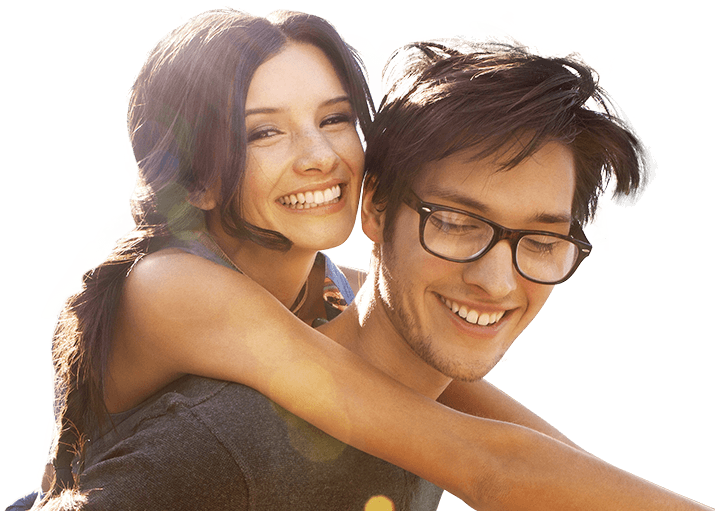
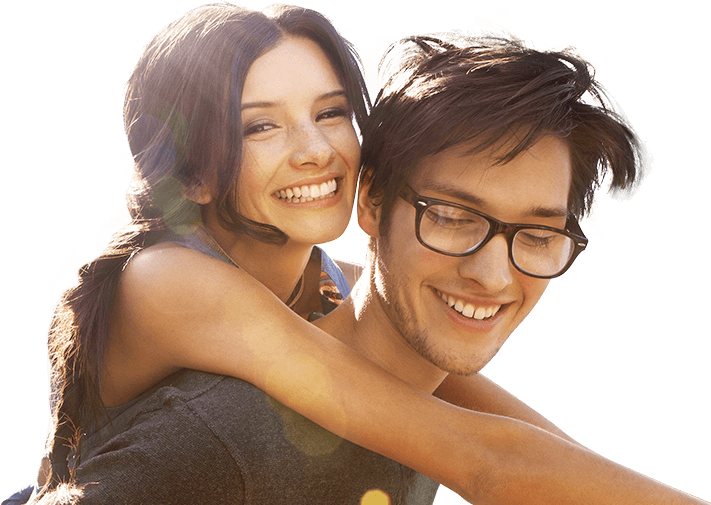
fix header for responsiveness

diff --git a/SCSS/orawellness.scss b/SCSS/orawellness.scss
@@ -1869,9 +1869,21 @@ div.home-header {
     background: url('images/home.jpg') no-repeat bottom center / cover;
 
     .wrap {
-        background: url('images/people.png') no-repeat bottom right;
+        background: url('images/people.png') no-repeat;
         position: relative;
-        @media screen and (min-width: 960px) { min-height: 45rem; }
+        @media screen and (min-width: 768px) {
+            min-height: 45rem;
+            background-position: bottom right;
+            background-size: 45%;
+        }
+        @media screen and (max-width: 767px) {
+            min-height: 55rem;
+            background-position: bottom center;
+            background-size: 20em;
+        }
+        @media screen and (max-width: 479px) {
+            background-size: 15em;
+        }
     }
 
     h1, p {
@@ -1881,32 +1893,74 @@ div.home-header {
     }
 
     h1 {
-        padding: 2rem;
+        padding: 0.28em;
         background-color: rgba($color-green-dark, 0.8);
         font-weight: 300;
         font-style: italic;
-        font-size: 7rem;
 
         &.title {
-            top: 2rem;
+            top: 0.28em;
             left: 0;
         }
-
         &.subtitle {
             top: 2.1em;
-            left: 2em;
             z-index: 100;
         }
+
+        @media screen and (min-width: 1200px) { font-size: 7rem; }
+        @media screen and (min-width: 960px) and (max-width: 1199px) { font-size: 6rem; }
+        @media screen and (min-width: 768px) and (max-width: 959px) { font-size: 5rem; }
+        @media screen and (min-width: 768px) {
+            &.title { left: 0; }
+            &.subtitle { left: 2em; }
+        }
+        @media screen and (min-width: 400px) and (max-width: 767px) {
+            font-size: 4.1rem;
+
+            &.title { left: 10%; }
+            &.subtitle { right: 10%; }
+        }
+        @media screen and (max-width: 399px) { font-size: 3rem; }
     }
 
     .description {
-        padding: 3rem 2rem 2rem 3rem;
+        padding: 1.36em 1.1em 1.1em 1.36em;
         background-color: rgba($color-green-light, 0.8);
-        font-size: 2.2rem;
-        top: 12em;
         left: 3em;
 
-        @media screen and (min-width: 960px) { max-width: 50%; }
+        @media screen and (min-width: 768px) { max-width: 50%; }
+        @media screen and (min-width: 1200px) {
+            font-size: 2.2rem;
+            top: 12em;
+        }
+        @media screen and (min-width: 960px) and (max-width: 1199px) {
+            font-size: 2rem;
+            top: 11.25em;
+        }
+        @media screen and (min-width: 768px) and (max-width: 959px) {
+            font-size: 1.8rem;
+            top: 10.25em;
+        }
+        @media screen and (min-width: 400px) and (max-width: 767px) {
+            font-size: 1.8rem;
+            width: 90%;
+            margin: 0 auto;
+            top: 8.5em;
+            left: 5%;
+        }
+    }
+
+    @media screen and (max-width: 399px) {
+        h1.title, h1.subtitle, .description {
+            width: 90%;
+            position: relative;
+            margin-right: auto;
+            margin-left: auto;
+            top: auto;
+            right: auto;
+            bottom: auto;
+            left: auto;
+        }
     }
 }
 
